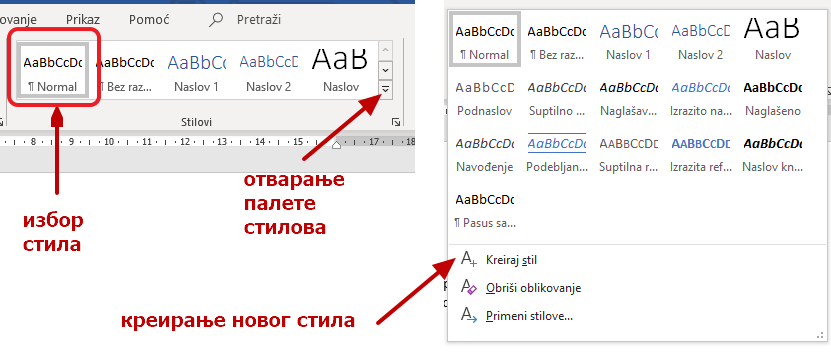
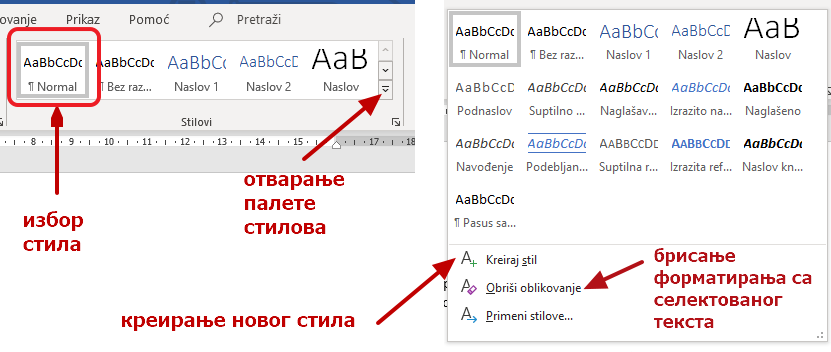
sitne korekcije

Changed region(s): [[0.6919, 0.6875, 0.9928, 0.8438], [0.7822, 0.8438, 0.9627, 0.875], [0.7822, 0.9062, 0.8724, 0.9375]]

diff --git a/_sources/ЛекцијаW4/tekst_lekcija_w4.rst b/_sources/ЛекцијаW4/tekst_lekcija_w4.rst
@@ -4,7 +4,7 @@
 Логичка структура документа
 ---------------------------
 
-Текст се врло често састоји од више поглавља, она имају наслове, понекад је потребно прекинути страну пре него што се попуни текстом јер наставак текста треба да почне на следећој страници, некад на истој страници псотоје делови текста написани различитим фонтовима, са различитом проредом...
+Текст се врло често састоји од више поглавља, она имају наслове, понекад је потребно прекинути страну пре него што се попуни текстом јер наставак текста треба да почне на следећој страници, некад на истој страници постоје делови текста написани различитим фонтовима, са различитом проредом...
 
 Ако су у питању текстови од више страна или чак више десетина или стотина страна на којима има делова текста са различитим форматирањима, било би удобно да не морамо сваки пут да подешавамо све параметре (фонт, величину, проред, поравнање, набрајање итд.) већ да некако тај формат "ископирамо" или да скуп форматирања сачувамо и искористимо по потреби.
 
@@ -42,6 +42,10 @@
 .. image:: ../../_images/w4_stilovi_mod_kre.png
    :width: 800px   
    :align: center
+
+|
+
+Ако са неког текста треба укинути сва форматирања и вратити на основни стил тела текста, *Нормал* (Normal)  то је такође могуће избором одговарајуће алатке.
 
 |
 
